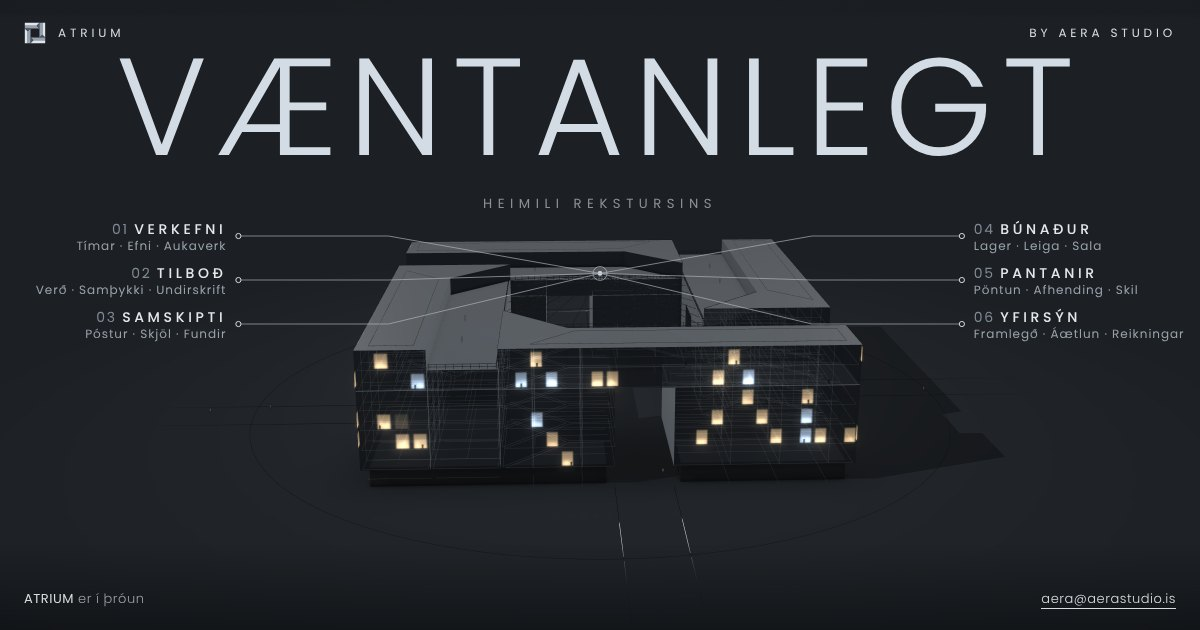
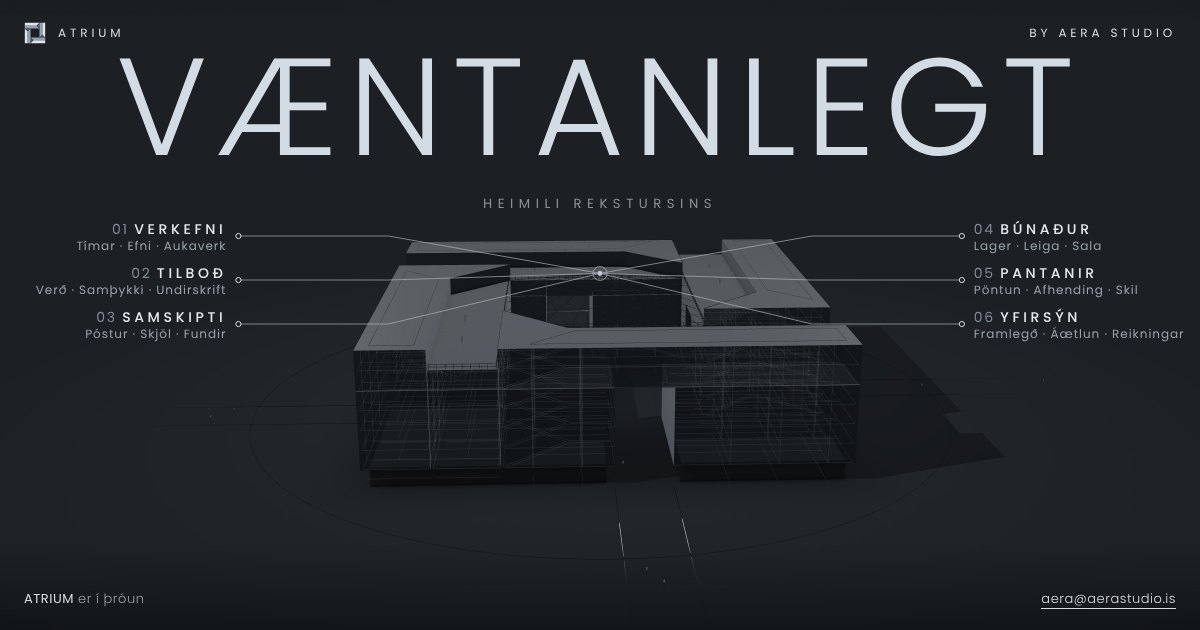
Væntanlegt: gluggaljós og fólk í gluggum tekin út
Claude-Session: https://claude.ai/code/session_01NhUccGStRqMU7uEcn4Gtag

diff --git a/index.html b/index.html
@@ -232,35 +232,7 @@ THREE.ColorManagement.enabled = false;
   const inG = new THREE.BufferGeometry(); inG.setAttribute("position", new THREE.Float32BufferAttribute(inPts, 3));
   const inM = new THREE.LineBasicMaterial({ color: 0xD3DCE4, transparent: true, opacity: 0, depthTest: false, depthWrite: false, toneMapped: false });
   const inner = new THREE.LineSegments(fine(inG, 1.2), inM); inner.renderOrder = 12; inner.geometry.setDrawRange(0, 0); scene.add(inner);
-  // ---- Líf inni í byggingunni: kveikt ljós í sumum gluggum og fólk á ferli fyrir innan glerið (sést aðeins í gegnum veggi sem snúa út) ----
-  let seed = 7; const srnd = () => (seed = (seed * 16807) % 2147483647) / 2147483647;   // föst röð svo sömu gluggar lýsi alltaf
-  const litP = [], litUV = [], litC = [], litPh = [], folk = [];
-  SH.forEach(([, k], i) => { if (k === 2) return; const arm = Math.floor(i / 3), P = POLY[i], nf = floors(k);
-    P.forEach((a, e) => { if (shared(e, i)) return; const b = P[(e + 1) % P.length], mx = (a[0] + b[0]) / 2 - 50, mz = (a[1] + b[1]) / 2 - 50;
-      let nx = -(b[1] - a[1]), nz = b[0] - a[0]; const nl = Math.hypot(nx, nz); nx /= nl; nz /= nl; if (nx * mx + nz * mz < 0) { nx = -nx; nz = -nz; }
-      if ((nx * mx + nz * mz) / Math.hypot(mx, mz) < .35) return;                       // aðeins hliðar sem snúa út
-      const [ax, az] = W(a), [bx, bz] = W(b), L = Math.hypot(bx - ax, bz - az), ux = (bx - ax) / L, uz = (bz - az) / L, n = Math.floor(L / 3);
-      for (let f = 1; f < nf; f++) for (let s2 = 0; s2 < n; s2++) { const c = (s2 + .5) * L / n, x = ax + ux * c + nx * .18, z = az + uz * c + nz * .18,   // ljósin liggja á glerinu svo þau falli rétt á bak við aðra hluta
-           tp = toTop([x + 50, z + 50], arm);
-        if (f * FL < HP && tp[0] > PASS[0] - 1 && tp[0] < PASS[1] + 1) continue;
-        const r = srnd(); if (r > .2) continue; const w = L / n * .45, y0 = f * FL + .35, y1 = (f + 1) * FL - .35, warm = srnd() < .8, ph = srnd();
-        const q = [[x - ux * w, y0, z - uz * w], [x + ux * w, y0, z + uz * w], [x + ux * w, y1, z + uz * w], [x - ux * w, y1, z - uz * w]];
-        [0, 1, 2, 0, 2, 3].forEach(j => { litP.push(...q[j]); litUV.push(j === 1 || j === 2 ? 1 : 0, j >= 2 ? 1 : 0); litC.push(...(warm ? [1, .82, .58] : [.78, .88, 1])); litPh.push(ph); });
-        if (srnd() < .45) folk.push([x + nx * .04 + ux * (srnd() - .5) * w, f * FL + .35, z + nz * .04 + uz * (srnd() - .5) * w, ux, uz, w]); } }); });
-  const litG = new THREE.BufferGeometry(); litG.setAttribute("position", new THREE.Float32BufferAttribute(litP, 3)); litG.setAttribute("uv", new THREE.Float32BufferAttribute(litUV, 2));
-  litG.setAttribute("col", new THREE.Float32BufferAttribute(litC, 3)); litG.setAttribute("ph", new THREE.Float32BufferAttribute(litPh, 1));
-  const litM = new THREE.ShaderMaterial({ transparent: true, depthTest: true, depthWrite: false, polygonOffset: true, polygonOffsetFactor: -4, polygonOffsetUnits: -4, blending: THREE.AdditiveBlending, toneMapped: false, side: THREE.DoubleSide, uniforms: { k: { value: 0 }, tm: { value: 0 } },
-    vertexShader: `uniform float tm; attribute vec3 col; attribute float ph; varying vec3 vc; varying vec2 vu; varying float von;
-      float h(float n){ return fract(sin(n*91.3)*43758.5); }
-      void main(){ vc=col; vu=uv; float T=tm/9.+ph*3., cyc=floor(T); von=mix(step(.18,h(ph*17.+cyc-1.)), step(.18,h(ph*17.+cyc)), smoothstep(0.,.12,fract(T)));
-        gl_Position=projectionMatrix*modelViewMatrix*vec4(position,1.); }`,
-    fragmentShader: `uniform float k; varying vec3 vc; varying vec2 vu; varying float von;
-      void main(){ float edge=smoothstep(0.,.18,vu.x)*smoothstep(1.,.82,vu.x)*smoothstep(0.,.1,vu.y)*smoothstep(1.,.85,vu.y);
-        float glow=(.55+.45*(1.-vu.y))*edge; gl_FragColor=vec4(vc*glow*.7*k*von,1.); }` });
-  const lit = new THREE.Mesh(litG, litM); lit.renderOrder = 14; scene.add(lit);
-  const folkTex = new THREE.CanvasTexture(cnv(64, 128, g => { g.fillStyle = "#07090B"; g.beginPath(); g.arc(32, 16, 10, 0, 7); g.fill(); g.beginPath(); g.moveTo(18, 30); g.lineTo(46, 30); g.lineTo(44, 80); g.lineTo(42, 126); g.lineTo(34, 126); g.lineTo(32, 84); g.lineTo(30, 126); g.lineTo(22, 126); g.lineTo(20, 80); g.fill(); }));
-  const folkS = folk.map(([x, y, z, ux, uz, w]) => { const sp = new THREE.Sprite(new THREE.SpriteMaterial({ map: folkTex, transparent: true, depthTest: true, depthWrite: false, opacity: 0, toneMapped: false })); sp.center.set(.5, 0);
-    sp.position.set(x, y, z); sp.scale.set(.9, 2.1, 1); sp.renderOrder = 15; sp.userData = { x, z, ux, uz, w, a: Math.random() * 6.28, v: .15 + Math.random() * .25 }; scene.add(sp); return sp; });
+
 
   // ---- Þökin: handrið á lægra þakinu, gróður á efri þökum, líf ----
   const life = new THREE.Group(); scene.add(life);
@@ -501,7 +473,6 @@ THREE.ColorManagement.enabled = false;
     // sólin færist hægt þegar dagur er kominn, svo skuggarnir hreyfast og myndin stendur ekki kyrr
     const sun = 2.6 + .022 * Math.max(0, t - 12); key.position.set(Math.cos(sun) * 180, 140, Math.sin(sun) * 180);
     { const f = smoother((t - 3.6) / 4.8); fillF = f; fillMats().forEach(m => { m.opacity = f * (1 - .16 * f); m.depthWrite = true; }); roofM.opacity = smoother((f - .55) / .45); wallInM.opacity = smoother((f - .55) / .45); shadowCatch.material.opacity = .55 * f; }
-    { const L2 = ease((t - 8.4) / 2.4); litM.uniforms.k.value = L2; litM.uniforms.tm.value = t; folkS.forEach(sp => { const u = sp.userData; sp.material.opacity = .9 * L2; if (!still) { u.a += .016 * u.v; } const d = Math.sin(u.a) * u.w * .7; sp.position.x = u.x + u.ux * d; sp.position.z = u.z + u.uz * d; }); }   // húsið endar örlítið gegnsætt
     sparkU.tm.value = t; sparkU.on.value = ease((t - 7) / 2); sparkU.pc.value.setRGB(.88, .95, 1);
     if (!low && t > 2.8) R.shadowMap.needsUpdate = true;   // skuggar fylgja byggingunni á meðan hún rís
     // stemning fylgir birtunni: snertiskuggi, bjarmi, mistur, baklýsing og daufur hlýr tónn í glerinu

diff --git a/vaentanlegt.html b/vaentanlegt.html
@@ -232,35 +232,7 @@ THREE.ColorManagement.enabled = false;
   const inG = new THREE.BufferGeometry(); inG.setAttribute("position", new THREE.Float32BufferAttribute(inPts, 3));
   const inM = new THREE.LineBasicMaterial({ color: 0xD3DCE4, transparent: true, opacity: 0, depthTest: false, depthWrite: false, toneMapped: false });
   const inner = new THREE.LineSegments(fine(inG, 1.2), inM); inner.renderOrder = 12; inner.geometry.setDrawRange(0, 0); scene.add(inner);
-  // ---- Líf inni í byggingunni: kveikt ljós í sumum gluggum og fólk á ferli fyrir innan glerið (sést aðeins í gegnum veggi sem snúa út) ----
-  let seed = 7; const srnd = () => (seed = (seed * 16807) % 2147483647) / 2147483647;   // föst röð svo sömu gluggar lýsi alltaf
-  const litP = [], litUV = [], litC = [], litPh = [], folk = [];
-  SH.forEach(([, k], i) => { if (k === 2) return; const arm = Math.floor(i / 3), P = POLY[i], nf = floors(k);
-    P.forEach((a, e) => { if (shared(e, i)) return; const b = P[(e + 1) % P.length], mx = (a[0] + b[0]) / 2 - 50, mz = (a[1] + b[1]) / 2 - 50;
-      let nx = -(b[1] - a[1]), nz = b[0] - a[0]; const nl = Math.hypot(nx, nz); nx /= nl; nz /= nl; if (nx * mx + nz * mz < 0) { nx = -nx; nz = -nz; }
-      if ((nx * mx + nz * mz) / Math.hypot(mx, mz) < .35) return;                       // aðeins hliðar sem snúa út
-      const [ax, az] = W(a), [bx, bz] = W(b), L = Math.hypot(bx - ax, bz - az), ux = (bx - ax) / L, uz = (bz - az) / L, n = Math.floor(L / 3);
-      for (let f = 1; f < nf; f++) for (let s2 = 0; s2 < n; s2++) { const c = (s2 + .5) * L / n, x = ax + ux * c + nx * .18, z = az + uz * c + nz * .18,   // ljósin liggja á glerinu svo þau falli rétt á bak við aðra hluta
-           tp = toTop([x + 50, z + 50], arm);
-        if (f * FL < HP && tp[0] > PASS[0] - 1 && tp[0] < PASS[1] + 1) continue;
-        const r = srnd(); if (r > .2) continue; const w = L / n * .45, y0 = f * FL + .35, y1 = (f + 1) * FL - .35, warm = srnd() < .8, ph = srnd();
-        const q = [[x - ux * w, y0, z - uz * w], [x + ux * w, y0, z + uz * w], [x + ux * w, y1, z + uz * w], [x - ux * w, y1, z - uz * w]];
-        [0, 1, 2, 0, 2, 3].forEach(j => { litP.push(...q[j]); litUV.push(j === 1 || j === 2 ? 1 : 0, j >= 2 ? 1 : 0); litC.push(...(warm ? [1, .82, .58] : [.78, .88, 1])); litPh.push(ph); });
-        if (srnd() < .45) folk.push([x + nx * .04 + ux * (srnd() - .5) * w, f * FL + .35, z + nz * .04 + uz * (srnd() - .5) * w, ux, uz, w]); } }); });
-  const litG = new THREE.BufferGeometry(); litG.setAttribute("position", new THREE.Float32BufferAttribute(litP, 3)); litG.setAttribute("uv", new THREE.Float32BufferAttribute(litUV, 2));
-  litG.setAttribute("col", new THREE.Float32BufferAttribute(litC, 3)); litG.setAttribute("ph", new THREE.Float32BufferAttribute(litPh, 1));
-  const litM = new THREE.ShaderMaterial({ transparent: true, depthTest: true, depthWrite: false, polygonOffset: true, polygonOffsetFactor: -4, polygonOffsetUnits: -4, blending: THREE.AdditiveBlending, toneMapped: false, side: THREE.DoubleSide, uniforms: { k: { value: 0 }, tm: { value: 0 } },
-    vertexShader: `uniform float tm; attribute vec3 col; attribute float ph; varying vec3 vc; varying vec2 vu; varying float von;
-      float h(float n){ return fract(sin(n*91.3)*43758.5); }
-      void main(){ vc=col; vu=uv; float T=tm/9.+ph*3., cyc=floor(T); von=mix(step(.18,h(ph*17.+cyc-1.)), step(.18,h(ph*17.+cyc)), smoothstep(0.,.12,fract(T)));
-        gl_Position=projectionMatrix*modelViewMatrix*vec4(position,1.); }`,
-    fragmentShader: `uniform float k; varying vec3 vc; varying vec2 vu; varying float von;
-      void main(){ float edge=smoothstep(0.,.18,vu.x)*smoothstep(1.,.82,vu.x)*smoothstep(0.,.1,vu.y)*smoothstep(1.,.85,vu.y);
-        float glow=(.55+.45*(1.-vu.y))*edge; gl_FragColor=vec4(vc*glow*.7*k*von,1.); }` });
-  const lit = new THREE.Mesh(litG, litM); lit.renderOrder = 14; scene.add(lit);
-  const folkTex = new THREE.CanvasTexture(cnv(64, 128, g => { g.fillStyle = "#07090B"; g.beginPath(); g.arc(32, 16, 10, 0, 7); g.fill(); g.beginPath(); g.moveTo(18, 30); g.lineTo(46, 30); g.lineTo(44, 80); g.lineTo(42, 126); g.lineTo(34, 126); g.lineTo(32, 84); g.lineTo(30, 126); g.lineTo(22, 126); g.lineTo(20, 80); g.fill(); }));
-  const folkS = folk.map(([x, y, z, ux, uz, w]) => { const sp = new THREE.Sprite(new THREE.SpriteMaterial({ map: folkTex, transparent: true, depthTest: true, depthWrite: false, opacity: 0, toneMapped: false })); sp.center.set(.5, 0);
-    sp.position.set(x, y, z); sp.scale.set(.9, 2.1, 1); sp.renderOrder = 15; sp.userData = { x, z, ux, uz, w, a: Math.random() * 6.28, v: .15 + Math.random() * .25 }; scene.add(sp); return sp; });
+
 
   // ---- Þökin: handrið á lægra þakinu, gróður á efri þökum, líf ----
   const life = new THREE.Group(); scene.add(life);
@@ -501,7 +473,6 @@ THREE.ColorManagement.enabled = false;
     // sólin færist hægt þegar dagur er kominn, svo skuggarnir hreyfast og myndin stendur ekki kyrr
     const sun = 2.6 + .022 * Math.max(0, t - 12); key.position.set(Math.cos(sun) * 180, 140, Math.sin(sun) * 180);
     { const f = smoother((t - 3.6) / 4.8); fillF = f; fillMats().forEach(m => { m.opacity = f * (1 - .16 * f); m.depthWrite = true; }); roofM.opacity = smoother((f - .55) / .45); wallInM.opacity = smoother((f - .55) / .45); shadowCatch.material.opacity = .55 * f; }
-    { const L2 = ease((t - 8.4) / 2.4); litM.uniforms.k.value = L2; litM.uniforms.tm.value = t; folkS.forEach(sp => { const u = sp.userData; sp.material.opacity = .9 * L2; if (!still) { u.a += .016 * u.v; } const d = Math.sin(u.a) * u.w * .7; sp.position.x = u.x + u.ux * d; sp.position.z = u.z + u.uz * d; }); }   // húsið endar örlítið gegnsætt
     sparkU.tm.value = t; sparkU.on.value = ease((t - 7) / 2); sparkU.pc.value.setRGB(.88, .95, 1);
     if (!low && t > 2.8) R.shadowMap.needsUpdate = true;   // skuggar fylgja byggingunni á meðan hún rís
     // stemning fylgir birtunni: snertiskuggi, bjarmi, mistur, baklýsing og daufur hlýr tónn í glerinu
